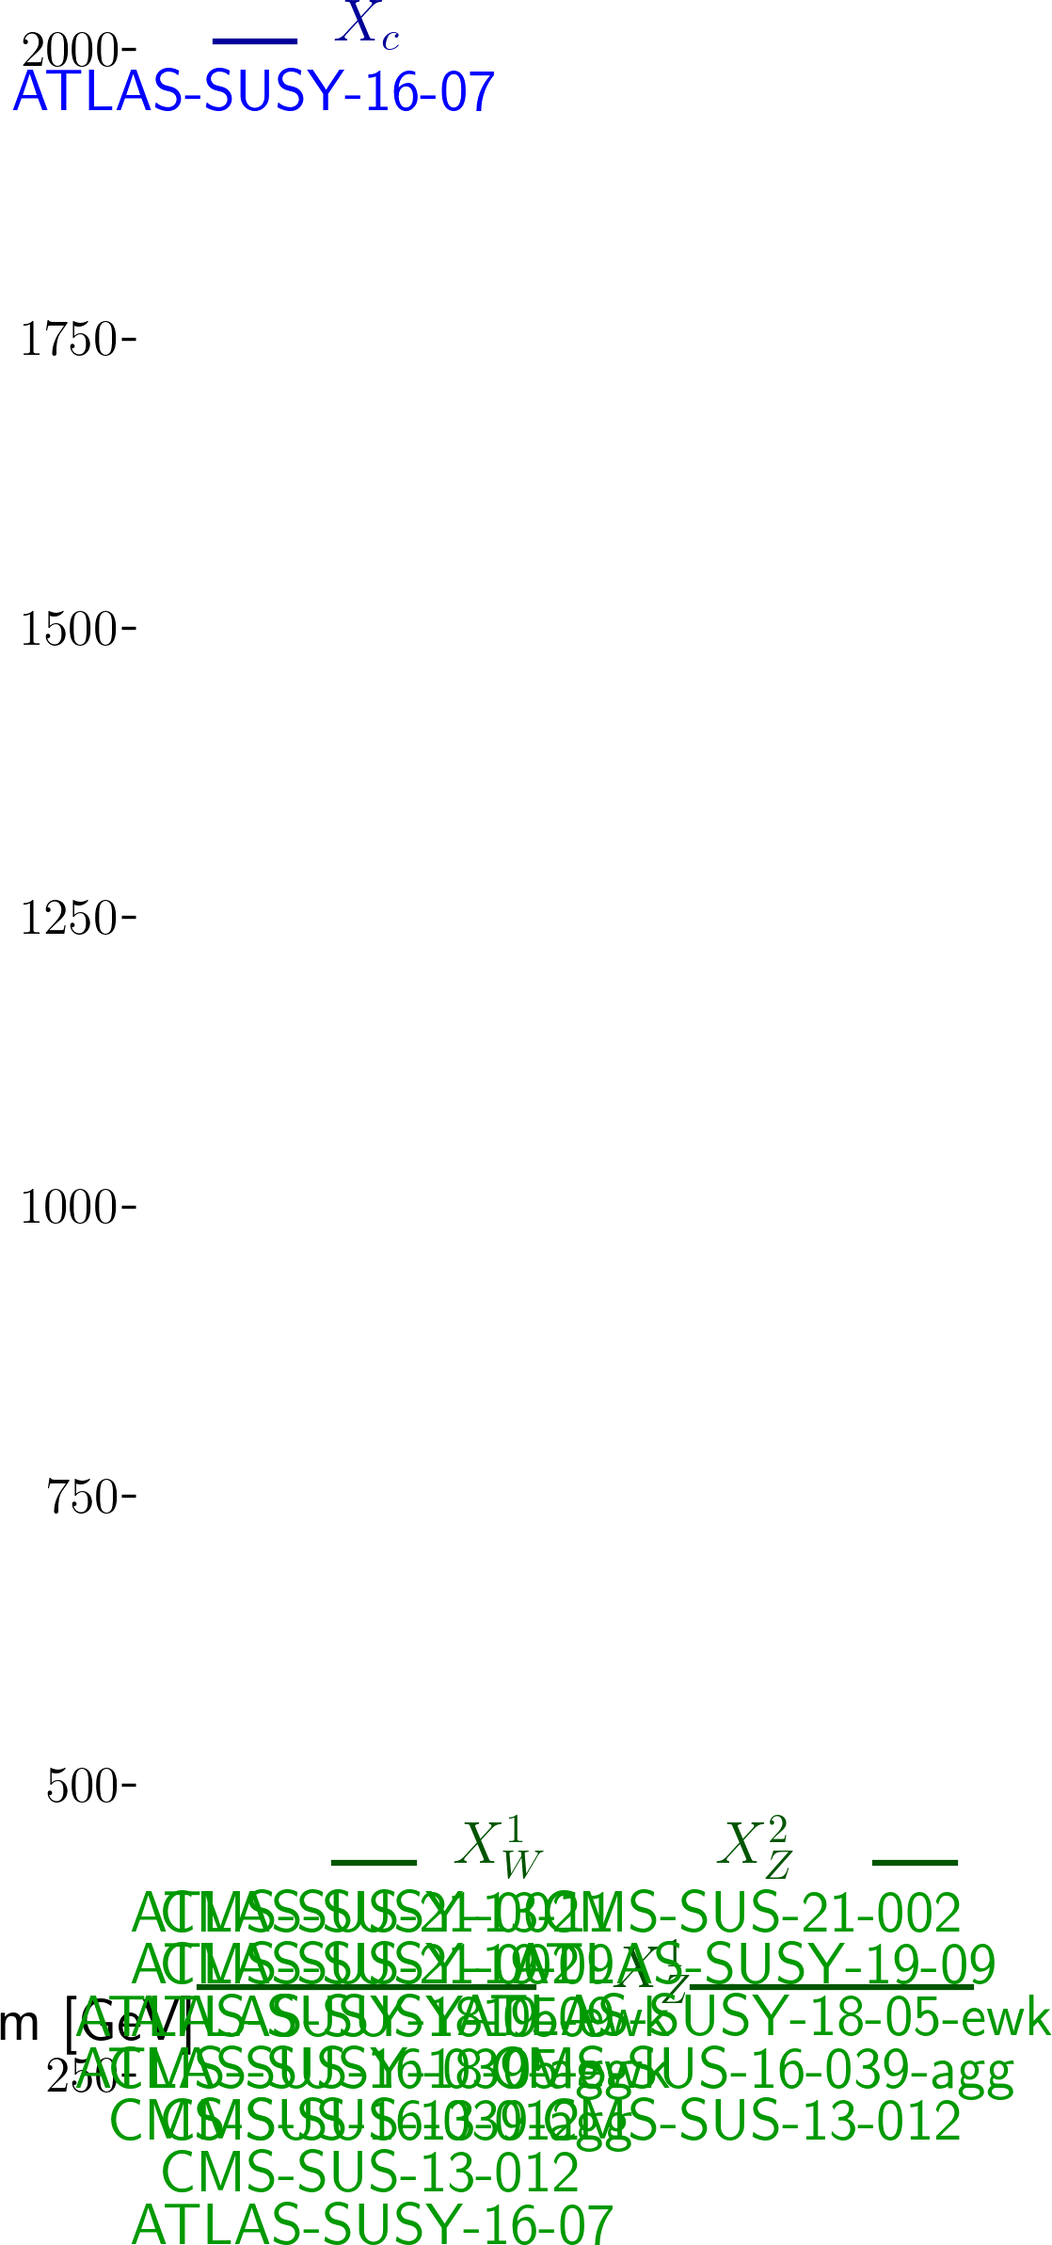
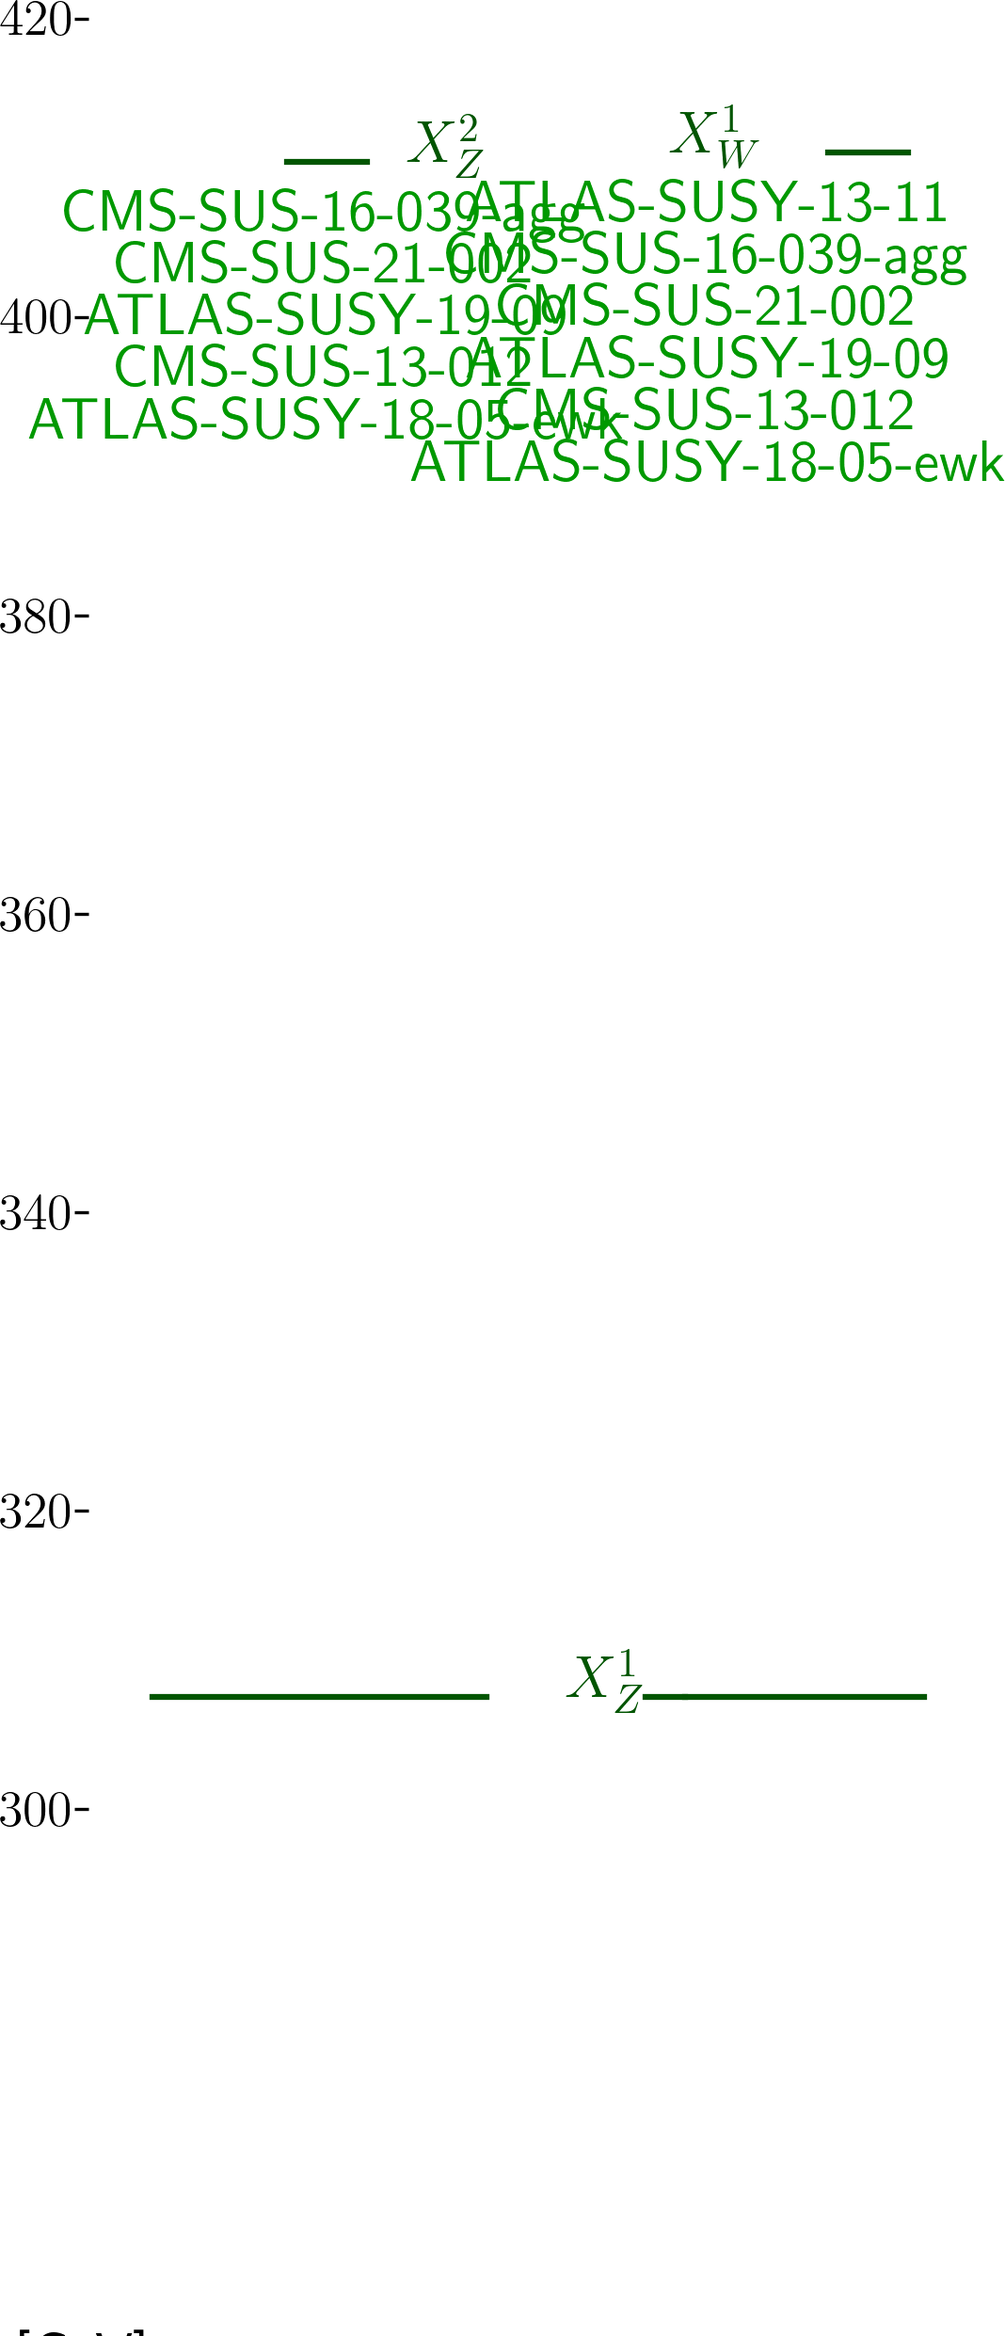
automated update by plotHiscore.py to fake_ewk3_310:     K=46.327 TL=50.58 walkerid=0

diff --git a/protomodels/fake_ewk3_310/rawnumbers.html b/protomodels/fake_ewk3_310/rawnumbers.html
@@ -2,42 +2,19 @@
 <tr><th>Analysis Name</th><th>Type</th><th>Dataset</th><th>Topos</th><th>Observed</th><th>Expected</th><th>Approx &sigma;</th><th>Particles</th><th>Signal</th>
 </tr>
 <tr><td><a href=https://atlas.web.cern.ch/Atlas/GROUPS/PHYSICS/PAPERS/SUSY-2019-09/>ATLAS-SUSY-2019-09</a></td><td>comb</td> <td>-</td><td>TChiWZ</td><td> 1 fb </td><td> 0.3 fb</td><td style="text-align:right">5.9 &sigma;</td><td style="text-align:right">X<sup>1</sup><sub>W</sub>, X<sup>1</sup><sub>Z</sub>, X<sup>2</sup><sub>Z</sub></td><td style="text-align:right">-</td></tr>
-<tr><td><a href=http://cms-results.web.cern.ch/cms-results/public-results/publications/SUS-16-039/index.html>CMS-SUS-16-039-agg</a></td><td>comb</td> <td>-</td><td>TChiWZ</td><td> 3 fb </td><td> 2 fb</td><td style="text-align:right">3.0 &sigma;</td><td style="text-align:right">X<sup>1</sup><sub>W</sub>, X<sup>1</sup><sub>Z</sub>, X<sup>2</sup><sub>Z</sub></td><td style="text-align:right">-</td></tr>
+<tr><td><a href=http://cms-results.web.cern.ch/cms-results/public-results/publications/SUS-16-039/index.html>CMS-SUS-16-039-agg</a></td><td>comb</td> <td>-</td><td>TChiWZ</td><td> 3 fb </td><td> 2 fb</td><td style="text-align:right">2.9 &sigma;</td><td style="text-align:right">X<sup>1</sup><sub>W</sub>, X<sup>1</sup><sub>Z</sub>, X<sup>2</sup><sub>Z</sub></td><td style="text-align:right">-</td></tr>
 <tr><td><a href=https://atlas.web.cern.ch/Atlas/GROUPS/PHYSICS/PAPERS/SUSY-2013-11/>ATLAS-SUSY-2013-11</a></td><td>em</td> <td>WWb-DF</td><td>TChiWW</td><td>30</td><td>18.10 +/- 2.60</td><td style="text-align:right">2.2 &sigma;</td><td style="text-align:right">X<sup>1</sup><sub>W</sub>, X<sup>1</sup><sub>Z</sub></td><td style="text-align:right">5</td></tr>
 <tr><td><a href=https://twiki.cern.ch/twiki/bin/view/CMSPublic/PhysicsResultsSUS13012>CMS-SUS-13-012</a></td><td>em</td> <td>3NJet6_800HT100 ...</td><td>TChiWW, TChiWZ, TChiZZ</td><td>75</td><td>54.80 +/- 9.70</td><td style="text-align:right">1.6 &sigma;</td><td style="text-align:right">X<sup>1</sup><sub>W</sub>, X<sup>1</sup><sub>Z</sub>, X<sup>2</sup><sub>Z</sub></td><td style="text-align:right">5</td></tr>
-<tr><td><a href=https://atlas.web.cern.ch/Atlas/GROUPS/PHYSICS/PAPERS/SUSY-2016-07/>ATLAS-SUSY-2016-07</a></td><td>em</td> <td>2j_Meff_2800</td><td>T2, T6WW</td><td>25</td><td>17.30 +/- 2.00</td><td style="text-align:right">1.6 &sigma;</td><td style="text-align:right">X<sup>1</sup><sub>W</sub>, X<sub>c</sub>, X<sup>1</sup><sub>Z</sub></td><td style="text-align:right">-</td></tr>
-<tr><td><a href=https://atlas.web.cern.ch/Atlas/GROUPS/PHYSICS/PAPERS/SUSY-2018-05/>ATLAS-SUSY-2018-05-ewk</a></td><td>comb</td> <td>-</td><td>TChiWZ</td><td> 0.3 fb </td><td> 0.2 fb</td><td style="text-align:right">1.0 &sigma;</td><td style="text-align:right">X<sup>1</sup><sub>W</sub>, X<sup>1</sup><sub>Z</sub>, X<sup>2</sup><sub>Z</sub></td><td style="text-align:right">-</td></tr>
-<tr><td><a href=http://cms-results.web.cern.ch/cms-results/public-results/publications/SUS-21-002/>CMS-SUS-21-002</a></td><td>comb</td> <td>-</td><td>TChiWW, TChiWZ</td><td> 1 fb </td><td> 0.9 fb</td><td style="text-align:right">0.2 &sigma;</td><td style="text-align:right">X<sup>1</sup><sub>W</sub>, X<sup>1</sup><sub>Z</sub>, X<sup>2</sup><sub>Z</sub></td><td style="text-align:right">-</td></tr>
+<tr><td><a href=http://cms-results.web.cern.ch/cms-results/public-results/publications/SUS-21-002/>CMS-SUS-21-002</a></td><td>comb</td> <td>-</td><td>TChiWW, TChiWZ</td><td> 1 fb </td><td> 1 fb</td><td style="text-align:right">0.9 &sigma;</td><td style="text-align:right">X<sup>1</sup><sub>W</sub>, X<sup>1</sup><sub>Z</sub>, X<sup>2</sup><sub>Z</sub></td><td style="text-align:right">-</td></tr>
+<tr><td><a href=https://atlas.web.cern.ch/Atlas/GROUPS/PHYSICS/PAPERS/SUSY-2018-05/>ATLAS-SUSY-2018-05-ewk</a></td><td>comb</td> <td>-</td><td>TChiWZ</td><td> 0.1 fb </td><td> 0.1 fb</td><td style="text-align:right">0.3 &sigma;</td><td style="text-align:right">X<sup>1</sup><sub>W</sub>, X<sup>1</sup><sub>Z</sub>, X<sup>2</sup><sub>Z</sub></td><td style="text-align:right">-</td></tr>
 </table>
 <table style='color:grey'>
-<tr><th>Not in Best Combo</th><th>Type</th><th>Dataset</th><th>Topos</th><th>Observed</th><th>Expected</th><th>Approx &sigma;</th><th>Particles</th><tr><td><a href=https://atlas.web.cern.ch/Atlas/GROUPS/PHYSICS/PAPERS/SUSY-2016-24/>ATLAS-SUSY-2016-24</a></td><td>em</td> <td>WZ-0Jc</td><td>TChiWZ</td><td>9</td><td>1.60 +/- 0.30</td><td style="text-align:right">4.0 &sigma;</td><td style="text-align:right">X<sup>1</sup><sub>W</sub>, X<sup>1</sup><sub>Z</sub>, X<sup>2</sup><sub>Z</sub></td><td style="text-align:right">4</td></tr>
-<tr><td><a href=https://atlas.web.cern.ch/Atlas/GROUPS/PHYSICS/PAPERS/SUSY-2017-03/>ATLAS-SUSY-2017-03</a></td><td>em</td> <td>SR2l_Int</td><td>TChiWZ</td><td>6</td><td>2.40 +/- 0.90</td><td style="text-align:right">1.7 &sigma;</td><td style="text-align:right">X<sup>1</sup><sub>W</sub>, X<sup>1</sup><sub>Z</sub>, X<sup>2</sup><sub>Z</sub></td><td style="text-align:right">1</td></tr>
-<tr><td><a href=https://atlas.web.cern.ch/Atlas/GROUPS/PHYSICS/PAPERS/SUSY-2016-24/>ATLAS-SUSY-2016-24</a></td><td>em</td> <td>WZ-0Jb</td><td>TChiWZ</td><td>6</td><td>2.70 +/- 0.50</td><td style="text-align:right">1.7 &sigma;</td><td style="text-align:right">X<sup>1</sup><sub>W</sub>, X<sup>1</sup><sub>Z</sub>, X<sup>2</sup><sub>Z</sub></td><td style="text-align:right">1</td></tr>
+<tr><th>Not in Best Combo</th><th>Type</th><th>Dataset</th><th>Topos</th><th>Observed</th><th>Expected</th><th>Approx &sigma;</th><th>Particles</th><tr><td><a href=https://atlas.web.cern.ch/Atlas/GROUPS/PHYSICS/PAPERS/SUSY-2016-24/>ATLAS-SUSY-2016-24</a></td><td>em</td> <td>WZ-0Jb</td><td>TChiWZ</td><td>6</td><td>2.70 +/- 0.50</td><td style="text-align:right">1.7 &sigma;</td><td style="text-align:right">X<sup>1</sup><sub>W</sub>, X<sup>1</sup><sub>Z</sub>, X<sup>2</sup><sub>Z</sub></td><td style="text-align:right">1</td></tr>
 <tr><td><a href=https://atlas.web.cern.ch/Atlas/GROUPS/PHYSICS/PAPERS/SUSY-2016-24/>ATLAS-SUSY-2016-24</a></td><td>em</td> <td>WZ-1Ja</td><td>TChiWZ</td><td>5</td><td>2.20 +/- 0.50</td><td style="text-align:right">1.6 &sigma;</td><td style="text-align:right">X<sup>1</sup><sub>W</sub>, X<sup>1</sup><sub>Z</sub>, X<sup>2</sup><sub>Z</sub></td><td style="text-align:right">2</td></tr>
-<tr><td><a href=https://atlas.web.cern.ch/Atlas/GROUPS/PHYSICS/PAPERS/SUSY-2017-03/>ATLAS-SUSY-2017-03</a></td><td>em</td> <td>SR3l_Int</td><td>TChiWZ</td><td>5</td><td>2.30 +/- 0.50</td><td style="text-align:right">1.5 &sigma;</td><td style="text-align:right">X<sup>1</sup><sub>W</sub>, X<sup>1</sup><sub>Z</sub>, X<sup>2</sup><sub>Z</sub></td><td style="text-align:right">5</td></tr>
 <tr><td><a href=https://atlas.web.cern.ch/Atlas/GROUPS/PHYSICS/PAPERS/SUSY-2017-03/>ATLAS-SUSY-2017-03</a></td><td>em</td> <td>SR2l_ISR</td><td>TChiWZ</td><td>8</td><td>2.70 +/- 2.80</td><td style="text-align:right">1.4 &sigma;</td><td style="text-align:right">X<sup>1</sup><sub>W</sub>, X<sup>1</sup><sub>Z</sub>, X<sup>2</sup><sub>Z</sub></td><td style="text-align:right">0</td></tr>
-<tr><td><a href=https://atlas.web.cern.ch/Atlas/GROUPS/PHYSICS/PAPERS/SUSY-2018-22/>ATLAS-SUSY-2018-22</a></td><td>em</td> <td>SR2j_1600</td><td>T2</td><td>2380</td><td>2190.00 +/- 130.00</td><td style="text-align:right">1.4 &sigma;</td><td style="text-align:right">X<sub>c</sub>, X<sup>1</sup><sub>Z</sub></td><td style="text-align:right">-</td></tr>
 <tr><td><a href=https://atlas.web.cern.ch/Atlas/GROUPS/PHYSICS/PAPERS/SUSY-2016-24/>ATLAS-SUSY-2016-24</a></td><td>em</td> <td>WZ-1Jc</td><td>TChiWZ</td><td>3</td><td>1.30 +/- 0.30</td><td style="text-align:right">1.3 &sigma;</td><td style="text-align:right">X<sup>1</sup><sub>W</sub>, X<sup>1</sup><sub>Z</sub>, X<sup>2</sup><sub>Z</sub></td><td style="text-align:right">1</td></tr>
-<tr><td><a href=https://atlas.web.cern.ch/Atlas/GROUPS/PHYSICS/PAPERS/SUSY-2017-03/>ATLAS-SUSY-2017-03</a></td><td>em</td> <td>SR3l_Low</td><td>TChiWZ</td><td>15</td><td>10.00 +/- 2.00</td><td style="text-align:right">1.3 &sigma;</td><td style="text-align:right">X<sup>1</sup><sub>W</sub>, X<sup>1</sup><sub>Z</sub>, X<sup>2</sup><sub>Z</sub></td><td style="text-align:right">7</td></tr>
-<tr><td><a href=https://atlas.web.cern.ch/Atlas/GROUPS/PHYSICS/CONFNOTES/ATLAS-CONF-2013-047/>ATLAS-CONF-2013-047</a></td><td>em</td> <td>A Loose</td><td>T2</td><td>5340</td><td>4700.00 +/- 500.00</td><td style="text-align:right">1.3 &sigma;</td><td style="text-align:right">X<sub>c</sub>, X<sup>1</sup><sub>Z</sub></td><td style="text-align:right">-</td></tr>
-<tr><td><a href=https://atlas.web.cern.ch/Atlas/GROUPS/PHYSICS/CONFNOTES/ATLAS-CONF-2013-047/>ATLAS-CONF-2013-047</a></td><td>em</td> <td>D</td><td>T2</td><td>23</td><td>15.00 +/- 5.00</td><td style="text-align:right">1.2 &sigma;</td><td style="text-align:right">X<sub>c</sub>, X<sup>1</sup><sub>Z</sub></td><td style="text-align:right">-</td></tr>
-<tr><td><a href=https://atlas.web.cern.ch/Atlas/GROUPS/PHYSICS/PAPERS/SUSY-2016-24/>ATLAS-SUSY-2016-24</a></td><td>em</td> <td>SR2-int</td><td>TChiWZ</td><td>8</td><td>4.10 +/- 2.60</td><td style="text-align:right">1.1 &sigma;</td><td style="text-align:right">X<sup>1</sup><sub>W</sub>, X<sup>1</sup><sub>Z</sub>, X<sup>2</sup><sub>Z</sub></td><td style="text-align:right">5</td></tr>
 <tr><td><a href=https://atlas.web.cern.ch/Atlas/GROUPS/PHYSICS/PAPERS/SUSY-2017-03/>ATLAS-SUSY-2017-03</a></td><td>em</td> <td>SR2l_Low</td><td>TChiWZ</td><td>16</td><td>8.40 +/- 5.80</td><td style="text-align:right">1.1 &sigma;</td><td style="text-align:right">X<sup>1</sup><sub>W</sub>, X<sup>1</sup><sub>Z</sub>, X<sup>2</sup><sub>Z</sub></td><td style="text-align:right">4</td></tr>
 <tr><td><a href=https://atlas.web.cern.ch/Atlas/GROUPS/PHYSICS/PAPERS/SUSY-2016-24/>ATLAS-SUSY-2016-24</a></td><td>em</td> <td>WZ-1Jb</td><td>TChiWZ</td><td>3</td><td>1.80 +/- 0.30</td><td style="text-align:right">0.9 &sigma;</td><td style="text-align:right">X<sup>1</sup><sub>W</sub>, X<sup>1</sup><sub>Z</sub>, X<sup>2</sup><sub>Z</sub></td><td style="text-align:right">2</td></tr>
-<tr><td><a href=https://atlas.web.cern.ch/Atlas/GROUPS/PHYSICS/PAPERS/SUSY-2017-03/>ATLAS-SUSY-2017-03</a></td><td>em</td> <td>SR2l_High</td><td>TChiWZ</td><td>3</td><td>1.90 +/- 0.80</td><td style="text-align:right">0.7 &sigma;</td><td style="text-align:right">X<sup>1</sup><sub>W</sub>, X<sup>1</sup><sub>Z</sub>, X<sup>2</sup><sub>Z</sub></td><td style="text-align:right">0</td></tr>
-<tr><td><a href=https://atlas.web.cern.ch/Atlas/GROUPS/PHYSICS/CONFNOTES/ATLAS-CONF-2013-047/>ATLAS-CONF-2013-047</a></td><td>em</td> <td>C Tight</td><td>T2</td><td>3</td><td>1.60 +/- 1.40</td><td style="text-align:right">0.7 &sigma;</td><td style="text-align:right">X<sub>c</sub>, X<sup>1</sup><sub>Z</sub></td><td style="text-align:right">-</td></tr>
-<tr><td><a href=https://atlas.web.cern.ch/Atlas/GROUPS/PHYSICS/CONFNOTES/ATLAS-CONF-2013-047/>ATLAS-CONF-2013-047</a></td><td>em</td> <td>C Medium</td><td>T2</td><td>230</td><td>210.00 +/- 40.00</td><td style="text-align:right">0.5 &sigma;</td><td style="text-align:right">X<sub>c</sub>, X<sup>1</sup><sub>Z</sub></td><td style="text-align:right">-</td></tr>
-<tr><td><a href=https://atlas.web.cern.ch/Atlas/GROUPS/PHYSICS/CONFNOTES/ATLAS-CONF-2013-047/>ATLAS-CONF-2013-047</a></td><td>em</td> <td>E Loose</td><td>T2</td><td>123</td><td>113.00 +/- 21.00</td><td style="text-align:right">0.4 &sigma;</td><td style="text-align:right">X<sub>c</sub>, X<sup>1</sup><sub>Z</sub></td><td style="text-align:right">-</td></tr>
-<tr><td><a href=https://atlas.web.cern.ch/Atlas/GROUPS/PHYSICS/PAPERS/SUSY-2018-22/>ATLAS-SUSY-2018-22</a></td><td>em</td> <td>SR2j_2200</td><td>T2</td><td>997</td><td>980.00 +/- 50.00</td><td style="text-align:right">0.3 &sigma;</td><td style="text-align:right">X<sub>c</sub>, X<sup>1</sup><sub>Z</sub></td><td style="text-align:right">-</td></tr>
 <tr><td><a href=https://atlas.web.cern.ch/Atlas/GROUPS/PHYSICS/PAPERS/SUSY-2016-24/>ATLAS-SUSY-2016-24</a></td><td>em</td> <td>WZ-0Ja</td><td>TChiWZ</td><td>23</td><td>21.70 +/- 2.90</td><td style="text-align:right">0.3 &sigma;</td><td style="text-align:right">X<sup>1</sup><sub>W</sub>, X<sup>1</sup><sub>Z</sub>, X<sup>2</sup><sub>Z</sub></td><td style="text-align:right">2</td></tr>
-<tr><td><a href=https://atlas.web.cern.ch/Atlas/GROUPS/PHYSICS/CONFNOTES/ATLAS-CONF-2013-047/>ATLAS-CONF-2013-047</a></td><td>em</td> <td>A Medium</td><td>T2</td><td>127</td><td>122.00 +/- 18.00</td><td style="text-align:right">0.3 &sigma;</td><td style="text-align:right">X<sub>c</sub>, X<sup>1</sup><sub>Z</sub></td><td style="text-align:right">-</td></tr>
-<tr><td><a href=https://atlas.web.cern.ch/Atlas/GROUPS/PHYSICS/PAPERS/SUSY-2016-24/>ATLAS-SUSY-2016-24</a></td><td>em</td> <td>SR2-high</td><td>TChiWZ</td><td>2</td><td>1.60 +/- 1.60</td><td style="text-align:right">0.2 &sigma;</td><td style="text-align:right">X<sup>1</sup><sub>W</sub>, X<sup>1</sup><sub>Z</sub>, X<sup>2</sup><sub>Z</sub></td><td style="text-align:right">0</td></tr>
-<tr><td><a href=https://atlas.web.cern.ch/Atlas/GROUPS/PHYSICS/CONFNOTES/ATLAS-CONF-2013-047/>ATLAS-CONF-2013-047</a></td><td>em</td> <td>E Tight</td><td>T2</td><td>3</td><td>2.90 +/- 1.80</td><td style="text-align:right">0.1 &sigma;</td><td style="text-align:right">X<sub>c</sub>, X<sup>1</sup><sub>Z</sub></td><td style="text-align:right">-</td></tr>
-<tr><td><a href=https://atlas.web.cern.ch/Atlas/GROUPS/PHYSICS/CONFNOTES/ATLAS-CONF-2013-047/>ATLAS-CONF-2013-047</a></td><td>em</td> <td>B Tight</td><td>T2</td><td>2</td><td>2.40 +/- 1.40</td><td style="text-align:right">-0.1 &sigma;</td><td style="text-align:right">X<sub>c</sub>, X<sup>1</sup><sub>Z</sub></td><td style="text-align:right">-</td></tr>
-<tr><td><a href=https://atlas.web.cern.ch/Atlas/GROUPS/PHYSICS/CONFNOTES/ATLAS-CONF-2013-047/>ATLAS-CONF-2013-047</a></td><td>em</td> <td>B Medium</td><td>T2</td><td>28</td><td>33.00 +/- 7.00</td><td style="text-align:right">-0.5 &sigma;</td><td style="text-align:right">X<sub>c</sub>, X<sup>1</sup><sub>Z</sub></td><td style="text-align:right">-</td></tr>
-<tr><td><a href=https://atlas.web.cern.ch/Atlas/GROUPS/PHYSICS/CONFNOTES/ATLAS-CONF-2013-047/>ATLAS-CONF-2013-047</a></td><td>em</td> <td>E Medium</td><td>T2</td><td>24</td><td>30.00 +/- 8.00</td><td style="text-align:right">-0.6 &sigma;</td><td style="text-align:right">X<sub>c</sub>, X<sup>1</sup><sub>Z</sub></td><td style="text-align:right">-</td></tr>
-<tr><td><a href=https://atlas.web.cern.ch/Atlas/GROUPS/PHYSICS/PAPERS/SUSY-2018-22/>ATLAS-SUSY-2018-22</a></td><td>em</td> <td>SR2j_2800</td><td>T2</td><td>79</td><td>87.00 +/- 8.00</td><td style="text-align:right">-0.6 &sigma;</td><td style="text-align:right">X<sub>c</sub>, X<sup>1</sup><sub>Z</sub></td><td style="text-align:right">-</td></tr>
-<tr><td><a href=http://cms-results.web.cern.ch/cms-results/public-results/publications/SUS-19-006/index.html>CMS-SUS-19-006-agg</a></td><td>comb</td> <td>-</td><td>T2</td><td> 0.6 fb </td><td> 0.5 fb</td><td style="text-align:right">-0.7 &sigma;</td><td style="text-align:right">X<sub>c</sub>, X<sup>1</sup><sub>Z</sub></td><td style="text-align:right">-</td></tr>
 <tr><td><a href=https://atlas.web.cern.ch/Atlas/GROUPS/PHYSICS/PAPERS/SUSY-2017-03/>ATLAS-SUSY-2017-03</a></td><td>em</td> <td>SR3l_ISR</td><td>TChiWZ</td><td>2</td><td>3.90 +/- 1.00</td><td style="text-align:right">-0.8 &sigma;</td><td style="text-align:right">X<sup>1</sup><sub>W</sub>, X<sup>1</sup><sub>Z</sub>, X<sup>2</sup><sub>Z</sub></td><td style="text-align:right">1</td></tr>
-<tr><td><a href=https://atlas.web.cern.ch/Atlas/GROUPS/PHYSICS/PAPERS/SUSY-2017-03/>ATLAS-SUSY-2017-03</a></td><td>em</td> <td>SR3l_High</td><td>TChiWZ</td><td>0</td><td>1.10 +/- 0.50</td><td style="text-align:right">-0.9 &sigma;</td><td style="text-align:right">X<sup>1</sup><sub>W</sub>, X<sup>1</sup><sub>Z</sub>, X<sup>2</sup><sub>Z</sub></td><td style="text-align:right">0</td></tr>
 </table>

diff --git a/protomodels/fake_ewk3_310/index.html b/protomodels/fake_ewk3_310/index.html
@@ -1,24 +1,24 @@
 <html>
 <body>
 <center>
-<table><td><h1>Current best protomodel: <i>K</i>=44.59, <i>TL</i>=50.59</h1><td><img height=60px src=https://smodels.github.io//protomodels/logos/protomodel_lego.png></table>
+<table><td><h1>Current best protomodel: <i>K</i>=46.33, <i>TL</i>=50.58</h1><td><img height=60px src=https://smodels.github.io//protomodels/logos/protomodel_lego.png></table>
 </center>
-<b><a href=./hiscore.slha>ProtoModel</a> <a href=./pmodel.dict>(dict)</a> produced with <a href=https://smodels.github.io//docs/Validation310fastsignal>database v3.1.0.fastsignal</a>, combination strategy <a href=./matrix.png>aggressive</a> in walker 0 step 214.</b> <br>
+<b><a href=./hiscore.slha>ProtoModel</a> <a href=./pmodel.dict>(dict)</a> produced with <a href=https://smodels.github.io//docs/Validation310fastsignal>database v3.1.0.fastsignal</a>, combination strategy <a href=./matrix.png>aggressive</a> in walker 0 step 815.</b> <br>
 <table width=80%>
 <tr><td>
 <br><b>Critics:</b> passed both critics<br>
-<br><b>LLHD Critic:</b> ATLAS-SUSY-2019-09:bkg_onshell_simplified, CMS-SUS-16-039-agg:combined, ATLAS-SUSY-2018-05-ewk:simplified, CMS-SUS-13-012:3NJet6_1000HT1250_600MHTinf, CMS-SUS-21-002:combined, ATLAS-SUSY-2013-11:mT2-90-DF:: <span style='color: darkgreen;'>robs=0.82, rexp=4.21</span><br>
-<br><b>16 predictions available. Highest r values are:</b><br><ul>
-<li><a href=http://cms-results.web.cern.ch/cms-results/public-results/publications/SUS-17-004/index.html>CMS-SUS-17-004</a>:ul:TChiWZ r=1.33, r<sub>exp</sub>=N/A<br>
-<li><a href=https://atlas.web.cern.ch/Atlas/GROUPS/PHYSICS/PAPERS/SUSY-2019-09/>ATLAS-SUSY-2019-09</a>:SRWZ_14:TChiWZ r=0.64, r<sub>exp</sub>=1.55<br>
-<li><a href=http://cms-results.web.cern.ch/cms-results/public-results/publications/SUS-16-039/index.html>CMS-SUS-16-039-agg</a>:AR1:TChiWZ r=0.61, r<sub>exp</sub>=0.96<br>
-<li><a href=https://atlas.web.cern.ch/Atlas/GROUPS/PHYSICS/PAPERS/SUSY-2016-24/>ATLAS-SUSY-2016-24</a>:WZ-1Ja:TChiWZ r=0.52, r<sub>exp</sub>=0.76<br>
+<br><b>LLHD Critic:</b> ATLAS-SUSY-2019-09:bkg_onshell_simplified, CMS-SUS-16-039-agg:combined, ATLAS-SUSY-2018-05-ewk:simplified, ATLAS-SUSY-2013-11:mT2-90-DF, CMS-SUS-21-002:combined, CMS-SUS-13-012:3NJet6_800HT1000_450MHT600:: <span style='color: darkgreen;'>robs=0.83, rexp=4.08</span><br>
+<br><b>11 predictions available. Highest r values are:</b><br><ul>
+<li><a href=http://cms-results.web.cern.ch/cms-results/public-results/publications/SUS-17-004/index.html>CMS-SUS-17-004</a>:ul:TChiWZ r=1.35, r<sub>exp</sub>=N/A<br>
+<li><a href=http://cms-results.web.cern.ch/cms-results/public-results/publications/SUS-16-039/index.html>CMS-SUS-16-039-agg</a>:AR1:TChiWZ r=0.70, r<sub>exp</sub>=1.11<br>
+<li><a href=https://atlas.web.cern.ch/Atlas/GROUPS/PHYSICS/PAPERS/SUSY-2019-09/>ATLAS-SUSY-2019-09</a>:SRWZ_14:TChiWZ r=0.59, r<sub>exp</sub>=1.41<br>
+<li><a href=https://atlas.web.cern.ch/Atlas/GROUPS/PHYSICS/PAPERS/SUSY-2016-24/>ATLAS-SUSY-2016-24</a>:WZ-1Ja:TChiWZ r=0.58, r<sub>exp</sub>=0.84<br>
 </ul>
-<td><img width=600px src=./texdoc.png?1757243102>
-<br><span style='font-size: smaller; color: darkred;'>Last updated: Sun Sep  7 13:05:02 2025</span>
+<td><img width=600px src=./texdoc.png?1757322962>
+<br><span style='font-size: smaller; color: darkred;'>Last updated: Mon Sep  8 11:16:02 2025</span>
 </table><table style="width:80%">
-<td width=45%><img height=580px src=./ruler.png?1757243102><td width=55%><img height=220px src=./decays.png?1757243102>
-<font size=-3><iframe type="text/html" height="350px" width="100%" frameborder="0" src="./rawnumbers.html?1757243102"></iframe></font>
+<td width=45%><img height=580px src=./ruler.png?1757322962><td width=55%><img height=220px src=./decays.png?1757322962>
+<font size=-3><iframe type="text/html" height="350px" width="100%" frameborder="0" src="./rawnumbers.html?1757322962"></iframe></font>
 </table>
 </body>
 </html>
